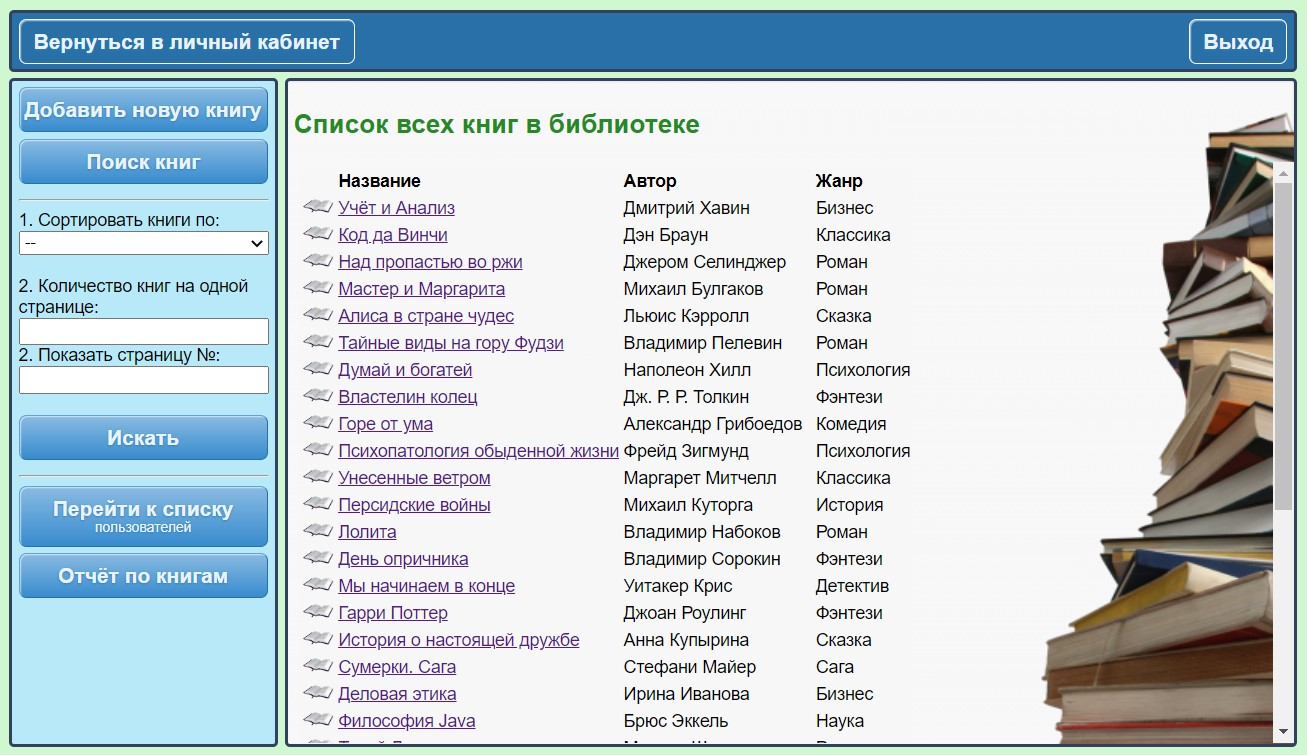
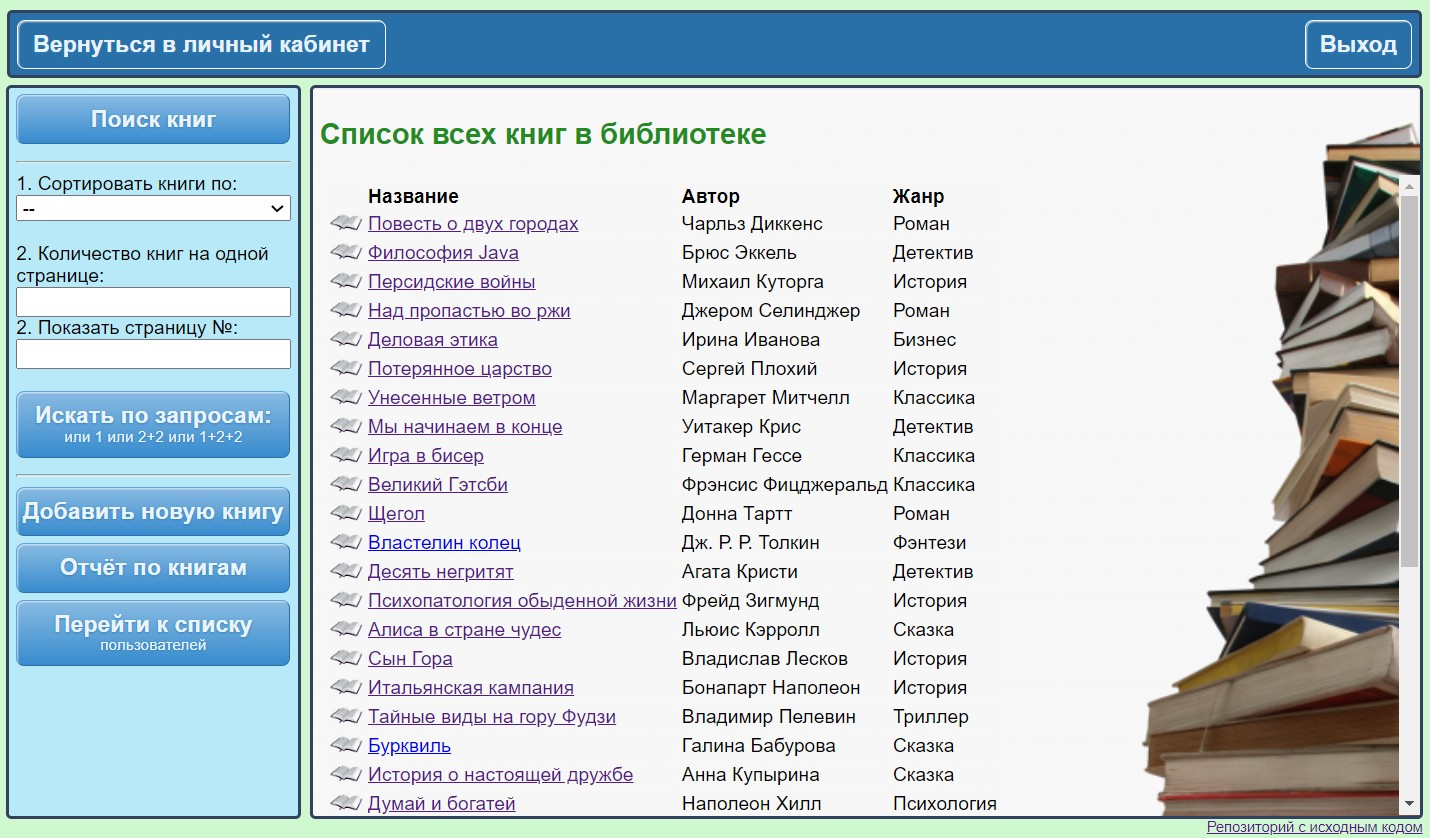
Search updated

diff --git a/src/main/resources/templates/books/all_books.html b/src/main/resources/templates/books/all_books.html
@@ -26,12 +26,6 @@
     <div th:class="blockTwo">
         <div th:class="select">
 
-            <div th:if="${#authorization.expression('hasRole(''ROLE_ADMIN'') or hasRole(''ROLE_LIBRARIAN'')')}">
-                <form th:method="GET" th:action="@{/books/new}">
-                    <input th:class="buttonNavi" type="submit" value="Добавить новую книгу">
-                </form>
-            </div>
-
             <form th:method="GET" th:action="@{/books/search}">
                 <input th:class="buttonNavi" type="submit" value="Поиск книг">
             </form>
@@ -54,7 +48,7 @@
                 <label for="page">2. Показать страницу №: </label>
                 <input id="page" name="page" type="number" min="1" max="100">
                 <br/> <br/>
-                <input th:class="buttonNavi" type="submit" value="Искать">
+                <input th:class="buttonNavi" type="submit" value=" Искать по запросам: или 1 или 2+2 или 1+2+2">
                 <hr/>
 
             </form>
@@ -66,14 +60,20 @@
             </div>
 
             <div th:if="${#authorization.expression('hasRole(''ROLE_ADMIN'') or hasRole(''ROLE_LIBRARIAN'')')}">
-                <form th:method="GET" th:action="@{/people}">
-                    <input th:class="buttonNavi" type="submit" value="Перейти к списку пользователей">
+                <form th:method="GET" th:action="@{/books/new}">
+                    <input th:class="buttonNavi" type="submit" value="Добавить новую книгу">
                 </form>
             </div>
 
             <div th:if="${#authorization.expression('hasRole(''ROLE_ADMIN'') or hasRole(''ROLE_LIBRARIAN'')')}">
                 <form th:method="GET" th:action="@{/books/report}">
                     <input th:class="buttonNavi" type="submit" value="Отчёт по книгам">
+                </form>
+            </div>
+
+            <div th:if="${#authorization.expression('hasRole(''ROLE_ADMIN'') or hasRole(''ROLE_LIBRARIAN'')')}">
+                <form th:method="GET" th:action="@{/people}">
+                    <input th:class="buttonNavi" type="submit" value="Перейти к списку пользователей">
                 </form>
             </div>
 

diff --git a/src/main/resources/templates/people/all_people.html b/src/main/resources/templates/people/all_people.html
@@ -25,11 +25,11 @@
         <form th:method="GET" th:action="@{/people/search}">
             <input th:class="buttonNavi" type="submit" value="Поиск пользователей">
         </form>
-        <form th:method="GET" th:action="@{/books}">
-            <input th:class="buttonNavi" type="submit" value="Перейти к списку книг">
-        </form>
         <form th:method="GET" th:action="@{/people/report}">
             <input th:class="buttonNavi" type="submit" value="Отчёт по пользователям">
+        </form>
+        <form th:method="GET" th:action="@{/books}">
+            <input th:class="buttonNavi" type="submit" value="Перейти к списку книг">
         </form>
     </div>
 

diff --git a/src/main/java/com/itbatia/app/services/BookService.java b/src/main/java/com/itbatia/app/services/BookService.java
@@ -13,7 +13,6 @@ import org.springframework.transaction.annotation.Transactional;
 import java.time.LocalDateTime;
 import java.time.ZoneId;
 import java.util.*;
-import java.util.stream.Collectors;
 
 @Service
 @Transactional(readOnly = true)
@@ -141,59 +140,17 @@ public class BookService {
     }
 
     //Поиск книг по названию:
-    public List<Book> findByTitleStartingWith(String query) {
-        if (!query.isEmpty()) {
-            List<String> wordsOfQuery = getWordsOfQuery(query);
-            if (wordsOfQuery.size() == 1) {
-                return findBooksByTitleInternal(wordsOfQuery.get(0));
-            } else {
-                List<Book> resultList = findBooksByTitleInternal(wordsOfQuery.get(0));
-                resultList.addAll(findBooksByTitleInternal(wordsOfQuery.get(1)));
-                return resultList.stream().distinct().toList();
-            }
-        }
+    public List<Book> findByTitleContainingQuery(String query) {
+        if (!query.isEmpty())
+            return bookRepository.findAllByTitleContainingIgnoreCase(query);
         return Collections.emptyList();
     }
 
-    //Поиск книги по имени автора:
-    public List<Book> findByAuthorStartingWith(String query) {
-        if (!query.isEmpty()) {
-            List<String> wordsOfQuery = getWordsOfQuery(query);
-            if (wordsOfQuery.size() == 1) {
-                return findBooksByAuthorInternal(wordsOfQuery.get(0));
-            } else {
-                List<Book> resultList = findBooksByAuthorInternal(wordsOfQuery.get(0));
-                resultList.addAll(findBooksByAuthorInternal(wordsOfQuery.get(1)));
-                return resultList.stream().distinct().toList();
-            }
-        }
+    //Поиск книги по автору:
+    public List<Book> findByAuthorContainingQuery(String query) {
+        if (!query.isEmpty())
+            return bookRepository.findAllByAuthorContainingIgnoreCase(query);
         return Collections.emptyList();
-    }
-
-    private List<String> getWordsOfQuery(String userQuery) {
-        List<String> wordsOfQuery = new ArrayList<>();
-        String query = userQuery.strip();
-
-        if (query.contains(" ")) {
-            String[] array = query.split(" ");
-            wordsOfQuery.add(array[0]);
-            wordsOfQuery.add(array[1]);
-        } else {
-            wordsOfQuery.add(query);
-        }
-        return wordsOfQuery;
-    }
-
-    private List<Book> findBooksByTitleInternal(String queryWord) {
-        return bookRepository.findAll().stream()
-                .filter(book -> book.getTitle().toLowerCase().contains(queryWord.toLowerCase()))
-                .collect(Collectors.toList());
-    }
-
-    private List<Book> findBooksByAuthorInternal(String queryWord) {
-        return bookRepository.findAll().stream()
-                .filter(book -> book.getAuthor().toUpperCase().contains(queryWord.toUpperCase()))
-                .collect(Collectors.toList());
     }
 
     //Для отчёта
@@ -224,7 +181,7 @@ public class BookService {
         } else return Collections.emptyMap();
     }
 
-    public List<Book> partBooksForReport(int number) {
+    public List<Book> getBooksForReport(int number) {
         if (number == 1) return bookRepository.findAllByOwnerNull();
         if (number == 2) return bookRepository.findAllByTakenAtNotNull();
         if (number == 3) return bookRepository.findAllByReservedUntilNotNull();

diff --git a/src/main/java/com/itbatia/app/controllers/BookController.java b/src/main/java/com/itbatia/app/controllers/BookController.java
@@ -19,7 +19,6 @@ import org.springframework.web.bind.annotation.*;
 import javax.validation.Valid;
 import java.util.ArrayList;
 import java.util.List;
-import java.util.stream.Collectors;
 
 @Controller
 @RequestMapping("/books")
@@ -160,9 +159,9 @@ public class BookController {
                              @RequestParam("searchBy") String searchBy) {
         List<Book> books = new ArrayList<>();
         if (searchBy.equals("title")) {
-            books = bookService.findByTitleStartingWith(query);
+            books = bookService.findByTitleContainingQuery(query);
         } else if (searchBy.equals("author")) {
-            books = bookService.findByAuthorStartingWith(query);
+            books = bookService.findByAuthorContainingQuery(query);
         }
         model.addAttribute("books", books.stream().map(this::convertToBookDTO).toList());
         model.addAttribute("amount", books.size());
@@ -179,7 +178,7 @@ public class BookController {
 
     @GetMapping("/report/{number}")
     public String getPartBooksForReport(@PathVariable("number") Integer number, Model model) {
-        model.addAttribute("books", bookService.partBooksForReport(number)
+        model.addAttribute("books", bookService.getBooksForReport(number)
                 .stream().map(this::convertToBookDTO).toList());
         model.addAttribute("number", number);
         return "books/books_for_report";
@@ -187,7 +186,8 @@ public class BookController {
 
     @GetMapping("/free_books")
     public String getFreeBooks(Model model) {
-        model.addAttribute("books", bookService.freeBooks().stream().map(this::convertToBookDTO).toList());
+        model.addAttribute("books", bookService.freeBooks()
+                .stream().map(this::convertToBookDTO).toList());
         return "books/free_books";
     }
 

diff --git a/src/main/java/com/itbatia/app/services/PersonService.java b/src/main/java/com/itbatia/app/services/PersonService.java
@@ -124,9 +124,9 @@ public class PersonService {
     }
 
     //Поиск пользователей по первой букве(ам) в имени:
-    public List<Person> findByFullNameStartingWith(String query) {
+    public List<Person> findByFullNameContainsQuery(String query) {
         if (!query.isEmpty())
-            return personRepository.findByFullNameStartingWith(query);
+            return personRepository.findAllByFullNameContainsIgnoreCase(query);
         return Collections.emptyList();
     }
 

diff --git a/src/main/java/com/itbatia/app/controllers/PeopleController.java b/src/main/java/com/itbatia/app/controllers/PeopleController.java
@@ -85,7 +85,7 @@ public class PeopleController {
     @PostMapping("/search")
     public String makeSearch(@RequestParam("query") String query, Model model) {
 
-        model.addAttribute("people", personService.findByFullNameStartingWith(query)
+        model.addAttribute("people", personService.findByFullNameContainsQuery(query)
                 .stream().map(personMapper::convertToPersonDTO).toList());
 
         return "people/search";

diff --git a/src/main/java/com/itbatia/app/repositories/BookRepository.java b/src/main/java/com/itbatia/app/repositories/BookRepository.java
@@ -12,6 +12,10 @@ public interface BookRepository extends JpaRepository<Book, Integer> {
 
     Optional<Book> findAllByTitleAndAuthor(String title, String author);
 
+    List<Book> findAllByTitleContainingIgnoreCase(String query);
+
+    List<Book> findAllByAuthorContainingIgnoreCase(String query);
+
     List<Book> findAllByTakenAtNotNull();
 
     List<Book> findAllByReservedUntilNotNull();

diff --git a/src/main/java/com/itbatia/app/repositories/PersonRepository.java b/src/main/java/com/itbatia/app/repositories/PersonRepository.java
@@ -14,7 +14,7 @@ public interface PersonRepository extends JpaRepository<Person, Integer> {
 
     List<Person> findAllByRole(String role);
 
-    List<Person> findByFullNameStartingWith(String query);
+    List<Person> findAllByFullNameContainsIgnoreCase(String query);
 
     List<Person> findAllByBookingFalse();
 }
